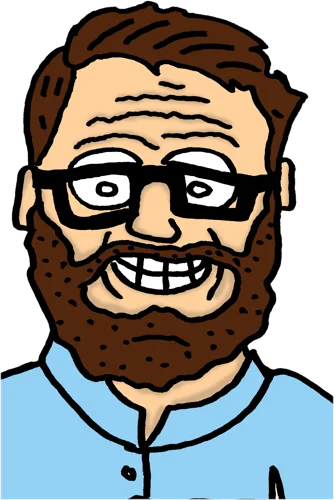
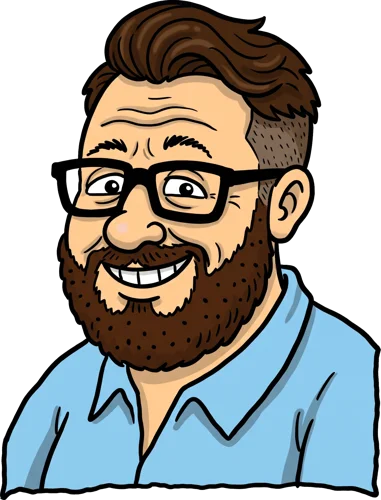
Neue Porträts, Domain ohne www
- Porträts von Matthias und Ludwig ersetzt (ungeschnitten)
- Kanonische Domain https://groeppel-und-picky.de
- Prüfhinweis auf der Figuren-Seite entfernt

Claude-Session: https://claude.ai/code/session_011fGUfqk93f42N3qxWKZtK6

diff --git a/server/config.sample.php b/server/config.sample.php
@@ -16,5 +16,5 @@ return [
         'from'     => 'post@groeppel-und-picky.de',
         'fromName' => 'Gröppel und Picky',
     ],
-    'baseUrl' => 'https://www.groeppel-und-picky.de',
+    'baseUrl' => 'https://groeppel-und-picky.de',
 ];
